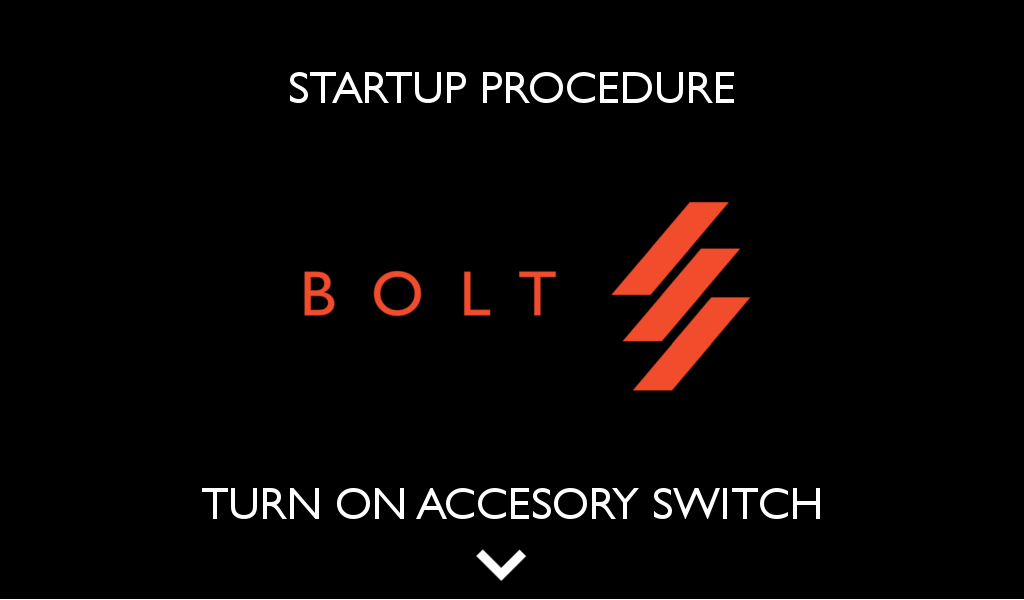
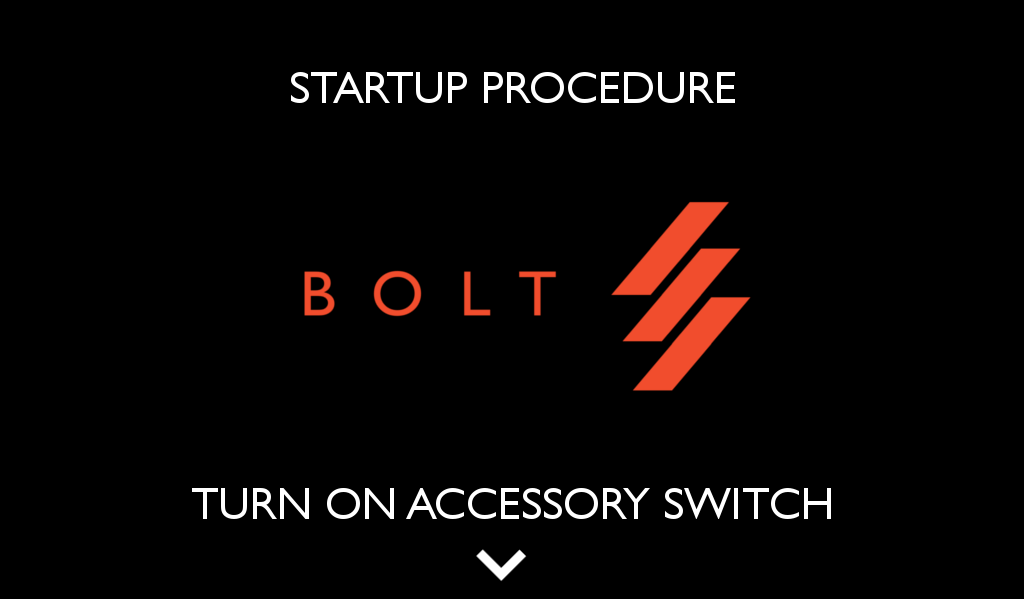
spelling typos

diff --git a/interface/mainwindow.cpp b/interface/mainwindow.cpp
@@ -25,7 +25,7 @@ MainWindow::MainWindow(QWidget *parent) :
     connectNavSlots();
     // connect signals from can to race view
     connectRaceSlots();
-    // connect strtup slots
+    // connect startup slots
     connectStartupSlots();
 }
 
